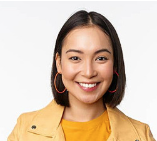
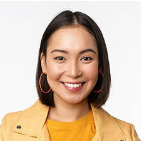
otimizar paginas e imagens

diff --git a/components/produto.jsx b/components/produto.jsx
@@ -52,9 +52,10 @@ export default function Produto(props) {
 					  className={styles.image}
 					  alt={title}
 					  width={imageWidth || 350}
-					  height={imageHeight || 350}
+					  height={imageHeight || 'auto'}
 					  src={image}
 					  priority
+					  fetchPriority='high'
 					/>
 				  </Link>
 				
@@ -66,20 +67,20 @@ export default function Produto(props) {
 			<div id="comentarios" className={styles.AlignCenter}>
 			    <Link  href={link}>
 				  <div className={styles.balloonBoxContainner}>
-				     <img   className={styles.balloonBoxImage} alt="foto de Renata" src="/images/avaliadores/3.webp" width="80" height="80"></img>
+				     <img   className={styles.balloonBoxImage} alt="foto de Renata" src="/images/avaliadores/2.webp" width="80" height="80"></img>
 				     <div className={styles.balloonBox} >				
 					      <p   className={styles.balloonBoxText}>⭐⭐⭐⭐⭐ <br/>Estou muito feliz com minha compra. A qualidade é incomparável!</p>
 				      </div> 
 				  </div>
 				
 				   <div className={styles.balloonBoxContainner}>
-					  <img   className={styles.balloonBoxImage} alt="foto de Cristina" src="/images/avaliadores/Cristina.jpg" width="80" height="80"></img>
+					  <img   className={styles.balloonBoxImage} alt="foto de Cristina" src="/images/avaliadores/viviane.webp" width="80" height="80"></img>
 				      <div className={styles.balloonBox} >					
 					     <p   className={styles.balloonBoxText}>⭐⭐⭐⭐⭐<br/>O design moderno e resistente superou minhas expectativas! o resultado faz com que quem use se sinta sendo da Realeza!</p>
 				   </div> 
 				 </div>				
 				 <div className={styles.balloonBoxContainner}>
-					<img   className={styles.balloonBoxImage} alt="foto de Helena" src="/images/avaliadores/Helena.jpg" width="80" height="80"></img>
+					<img   className={styles.balloonBoxImage} alt="foto de Helena" src="/images/avaliadores/4.webp" width="80" height="80"></img>
 				    <div className={styles.balloonBox} >					
 					   <p   className={styles.balloonBoxText}>⭐⭐⭐⭐⭐<br/> É perfeito! Recomendasíssimo! Com certeza compraria novamente!</p>
 				    </div> 
@@ -107,7 +108,7 @@ Eu fiz o trabalho pesado por você — pesquisei, comparei, conferi reputação,
 					  className={styles.image}
 					  alt={title}
 					  width={imageWidth || 350}
-					  height={imageHeight || 350}
+					  height={imageHeight || 'auto'}
 					  src={image}
 					  priority
 					/>
@@ -162,12 +163,12 @@ Se essa dica te <b>poupou tempo</b>, te ajudou a <b>decidir</b>, evitou <b>dor d
                 <div ><br/>	
 					<div className={styles.balloonBoxContainner} >
 					
-						<img   className={styles.balloonBoxImage} alt="imagem check" src="/images/avaliadores/check.png" width="80" height="80"></img>
+						<img   className={styles.balloonBoxImage} alt="imagem check" src="/images/avaliadores/check.png" width="80" height="80" ></img>
 							<div className={styles.balloonBox} >
 										<Link href='https://www.blendibox.com.br' className={styles.AlignCenter} alt="Ir para Blendibox">
 							<p   className={styles.balloonBoxText}>
-								Somo a <b>Blendibox</b>, especializada em bolsas que unem praticidade, estilo e qualidade.
-					Também atuamos com marketing digital desde <b>2012</b> e carregamos uma paixão por Comércio Eletrônico, <b>Pesquisa</b> e <b>Testes de Produtos</b>, os quais fazemos de forma genuína, útil e inovadora. Compartilhamos tudo o que achamos <b>Relevante</b>, com <b>Empatia</b> e <b>Transparência</b>.
+								Somos a <b>Blendibox</b>, especializada em bolsas que unem praticidade, estilo e qualidade.
+					Também atuamos com marketing digital desde <b>2012</b> e carregamos uma paixão por Comércio Eletrônico, <b>Pesquisa</b> e <b>Testes de Produtos</b>, os quais fazemos de forma genuína, útil e inovadora. Compartilhamos tudo o que achamos <b>Relevante</b> para você, com <b>Empatia</b> e <b>Transparência</b>.
 					</p>
 					</Link>
 				   </div> 
@@ -178,9 +179,9 @@ Se essa dica te <b>poupou tempo</b>, te ajudou a <b>decidir</b>, evitou <b>dor d
 	 </div>	
 	   <div className={styles.AlignCenter}>
 		 <div  className={styles.assinatura} aria-label="Data da publicação" >					  
-            <time dateTime="2025-07-07">*JuLHo 07, 2025 </time><br/>
+            <time dateTime="2025-07-07">*Julho 07, 2025 </time><br/>
 			<Link href='https://www.blendibox.com.br' className={styles.AlignCenter}>
-					     © 2025, Blendibox - Todos os direitos reservados.
+					     © 2025, Blendibox.
 			</Link>
 			
 		 </div>

diff --git a/app/produto/[title]/page.jsx b/app/produto/[title]/page.jsx
@@ -46,9 +46,9 @@ async function lerTodosSlugs() {
 
 // Lê todos os arquivos JSON até encontrar o produto com slug correspondente
 async function encontrarProdutoPorSlug(slug) {
-	console.log('slug: ' + slug);
+//	console.log('slug: ' + slug);
   const filename = slugIndex[slug];
-  console.log('filename: ' + filename);
+ // console.log('filename: ' + filename);
   if (!filename) return null;
 	try {
 	  const filepath = path.join(process.cwd(), 'data', filename);
@@ -165,10 +165,10 @@ export async function generateMetadata({ params }) {
 export default async function Page({ params }) {
   const slug = params.title;
   
-  console.log('slug: ' + slug)
+  //console.log('slug: ' + slug)
   
   const produto = await encontrarProdutoPorSlug(String(slug));
-console.log(produto);
+//console.log(produto);
   if (!produto) return notFound();
 
   return (

diff --git a/components/Produto.module.css b/components/Produto.module.css
@@ -10,7 +10,7 @@
   width: 100%;
   height: 100%;
   background-color:#7777ff;
-     background-image: url('/images/avaliadores/good_vibes.jpg') ;
+     background-image: url('/images/avaliadores/good_vibes.webp') ;
 	 background-repeat: no-repeat;
 	 background-position: center top;
   opacity: 0.05; /* Define a transparência da imagem de fundo */
@@ -60,7 +60,7 @@ background-attachment: fixed;
 .balloonBox {
 	padding:10px;
   width: 350px;
-  max-height: 300px;
+  max-height: 330px;
   background: #fff;
   border-radius: 26.5px;
   text-align: center;
